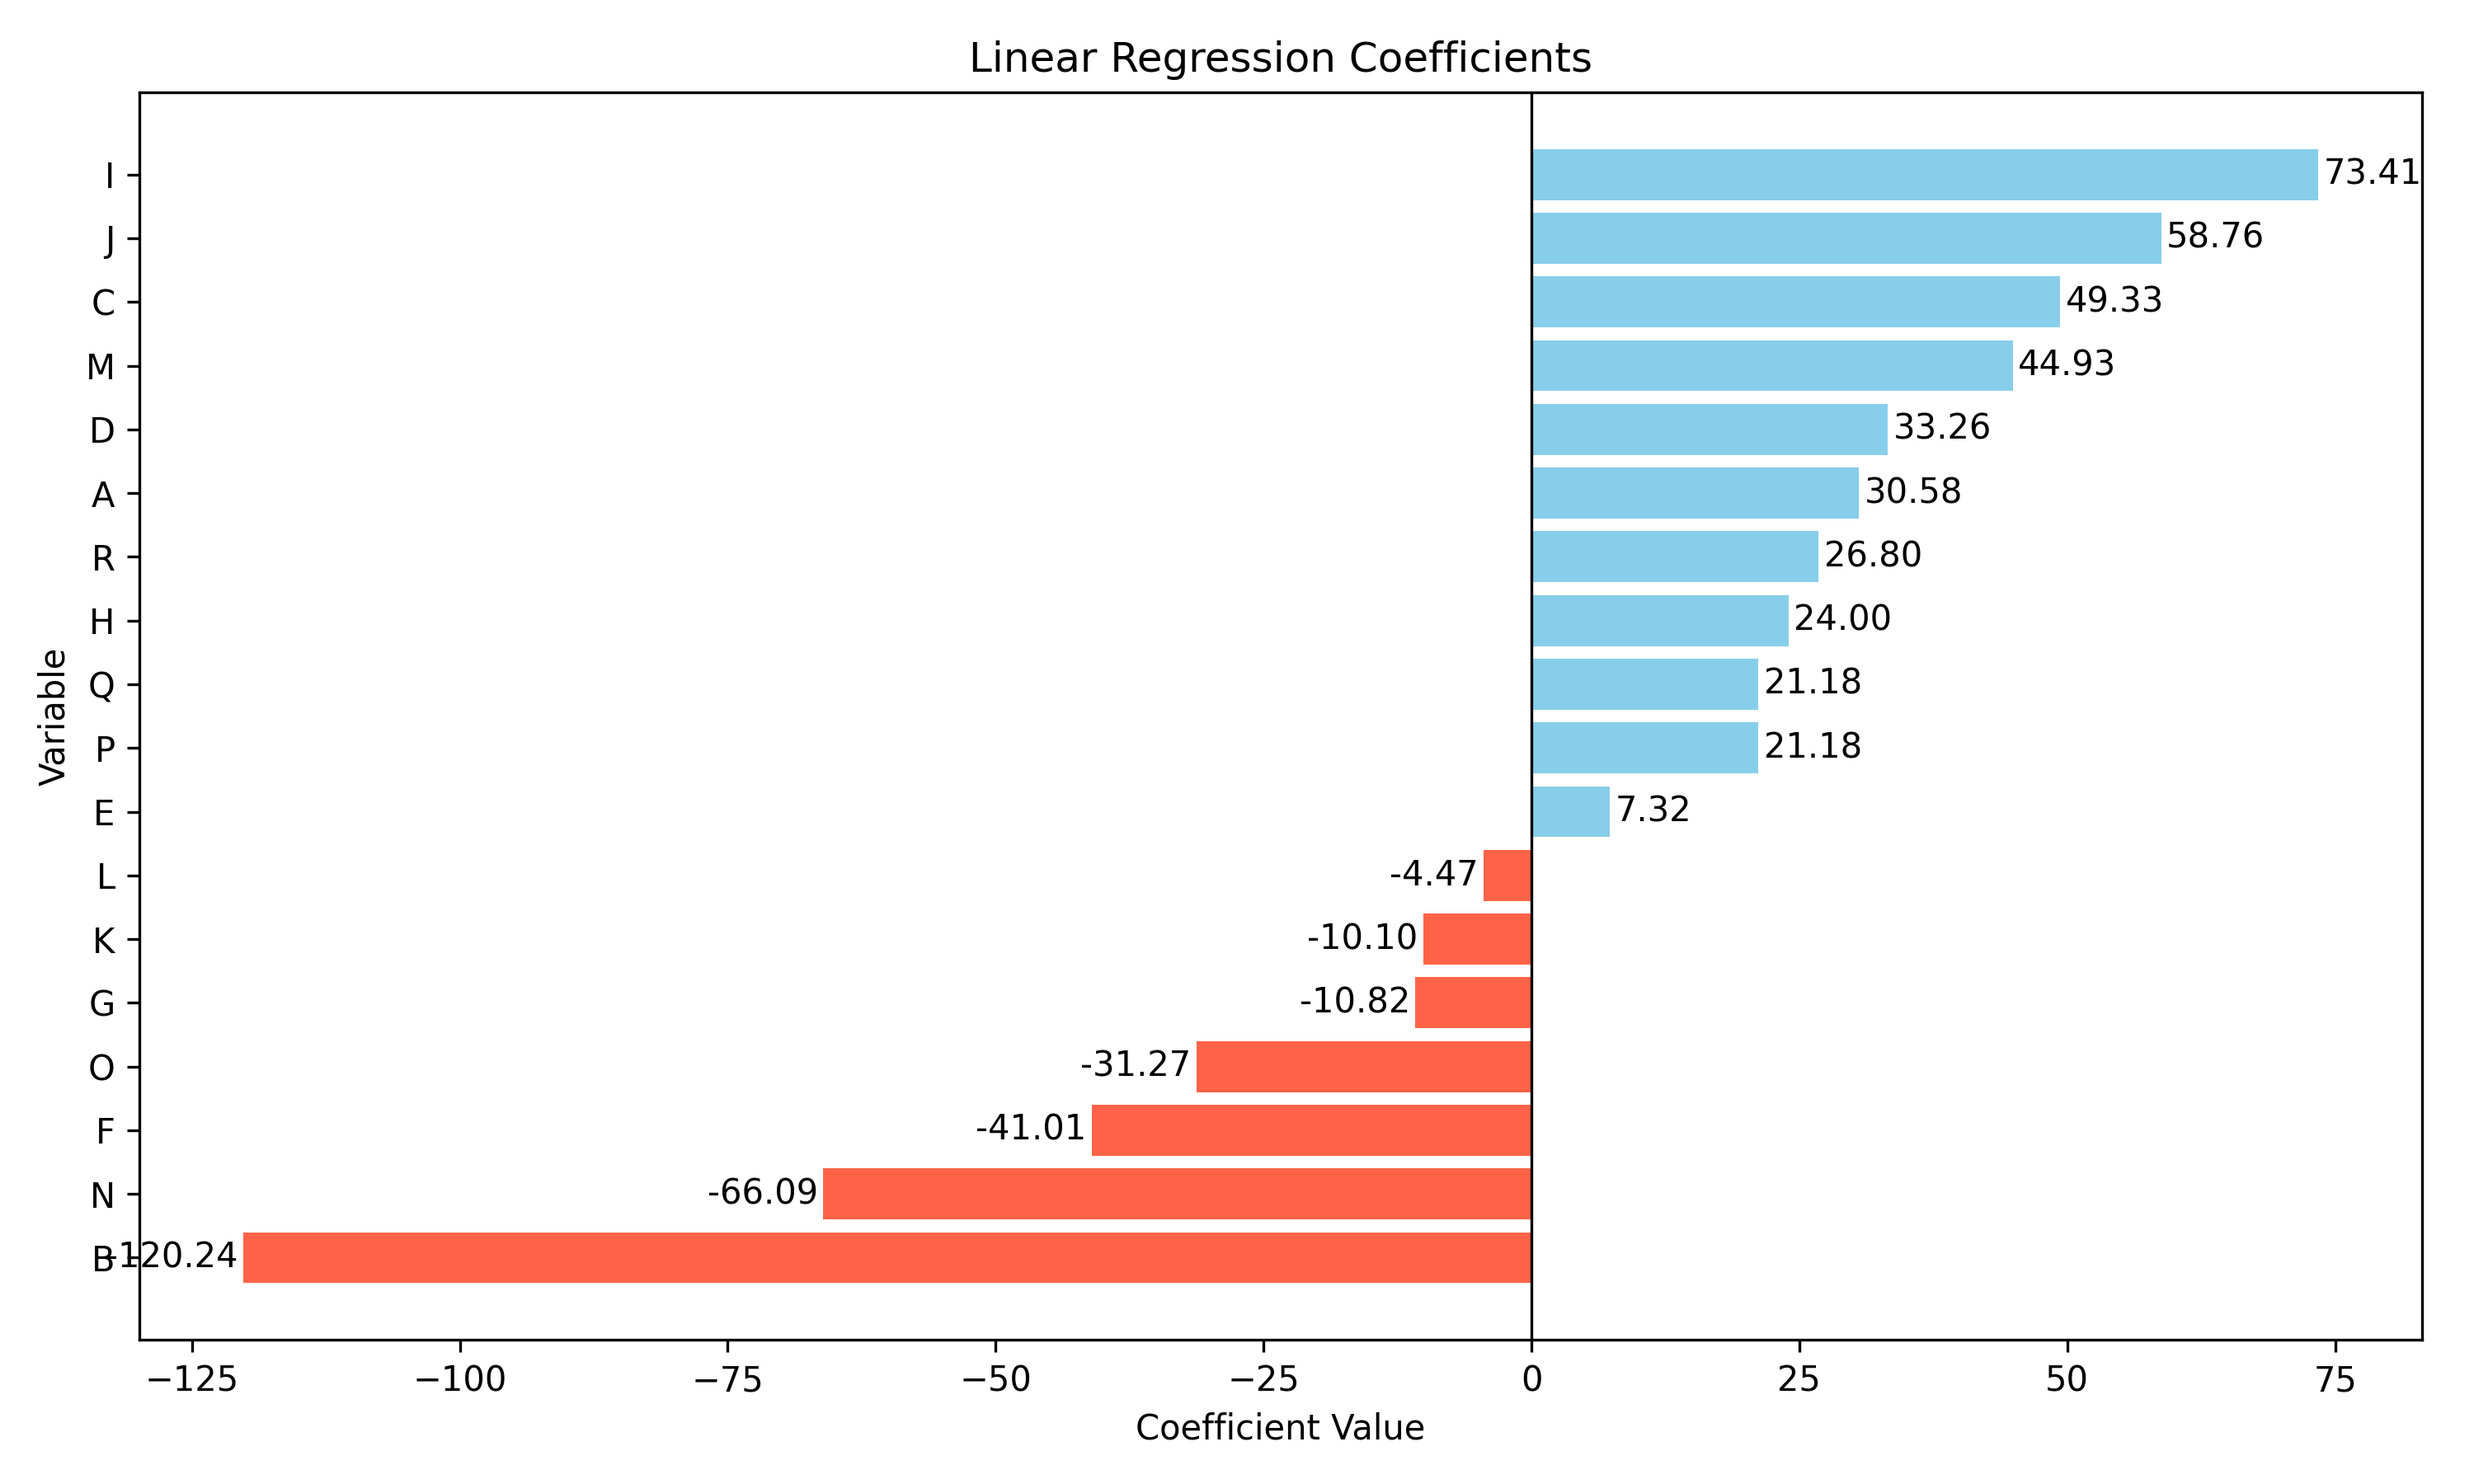
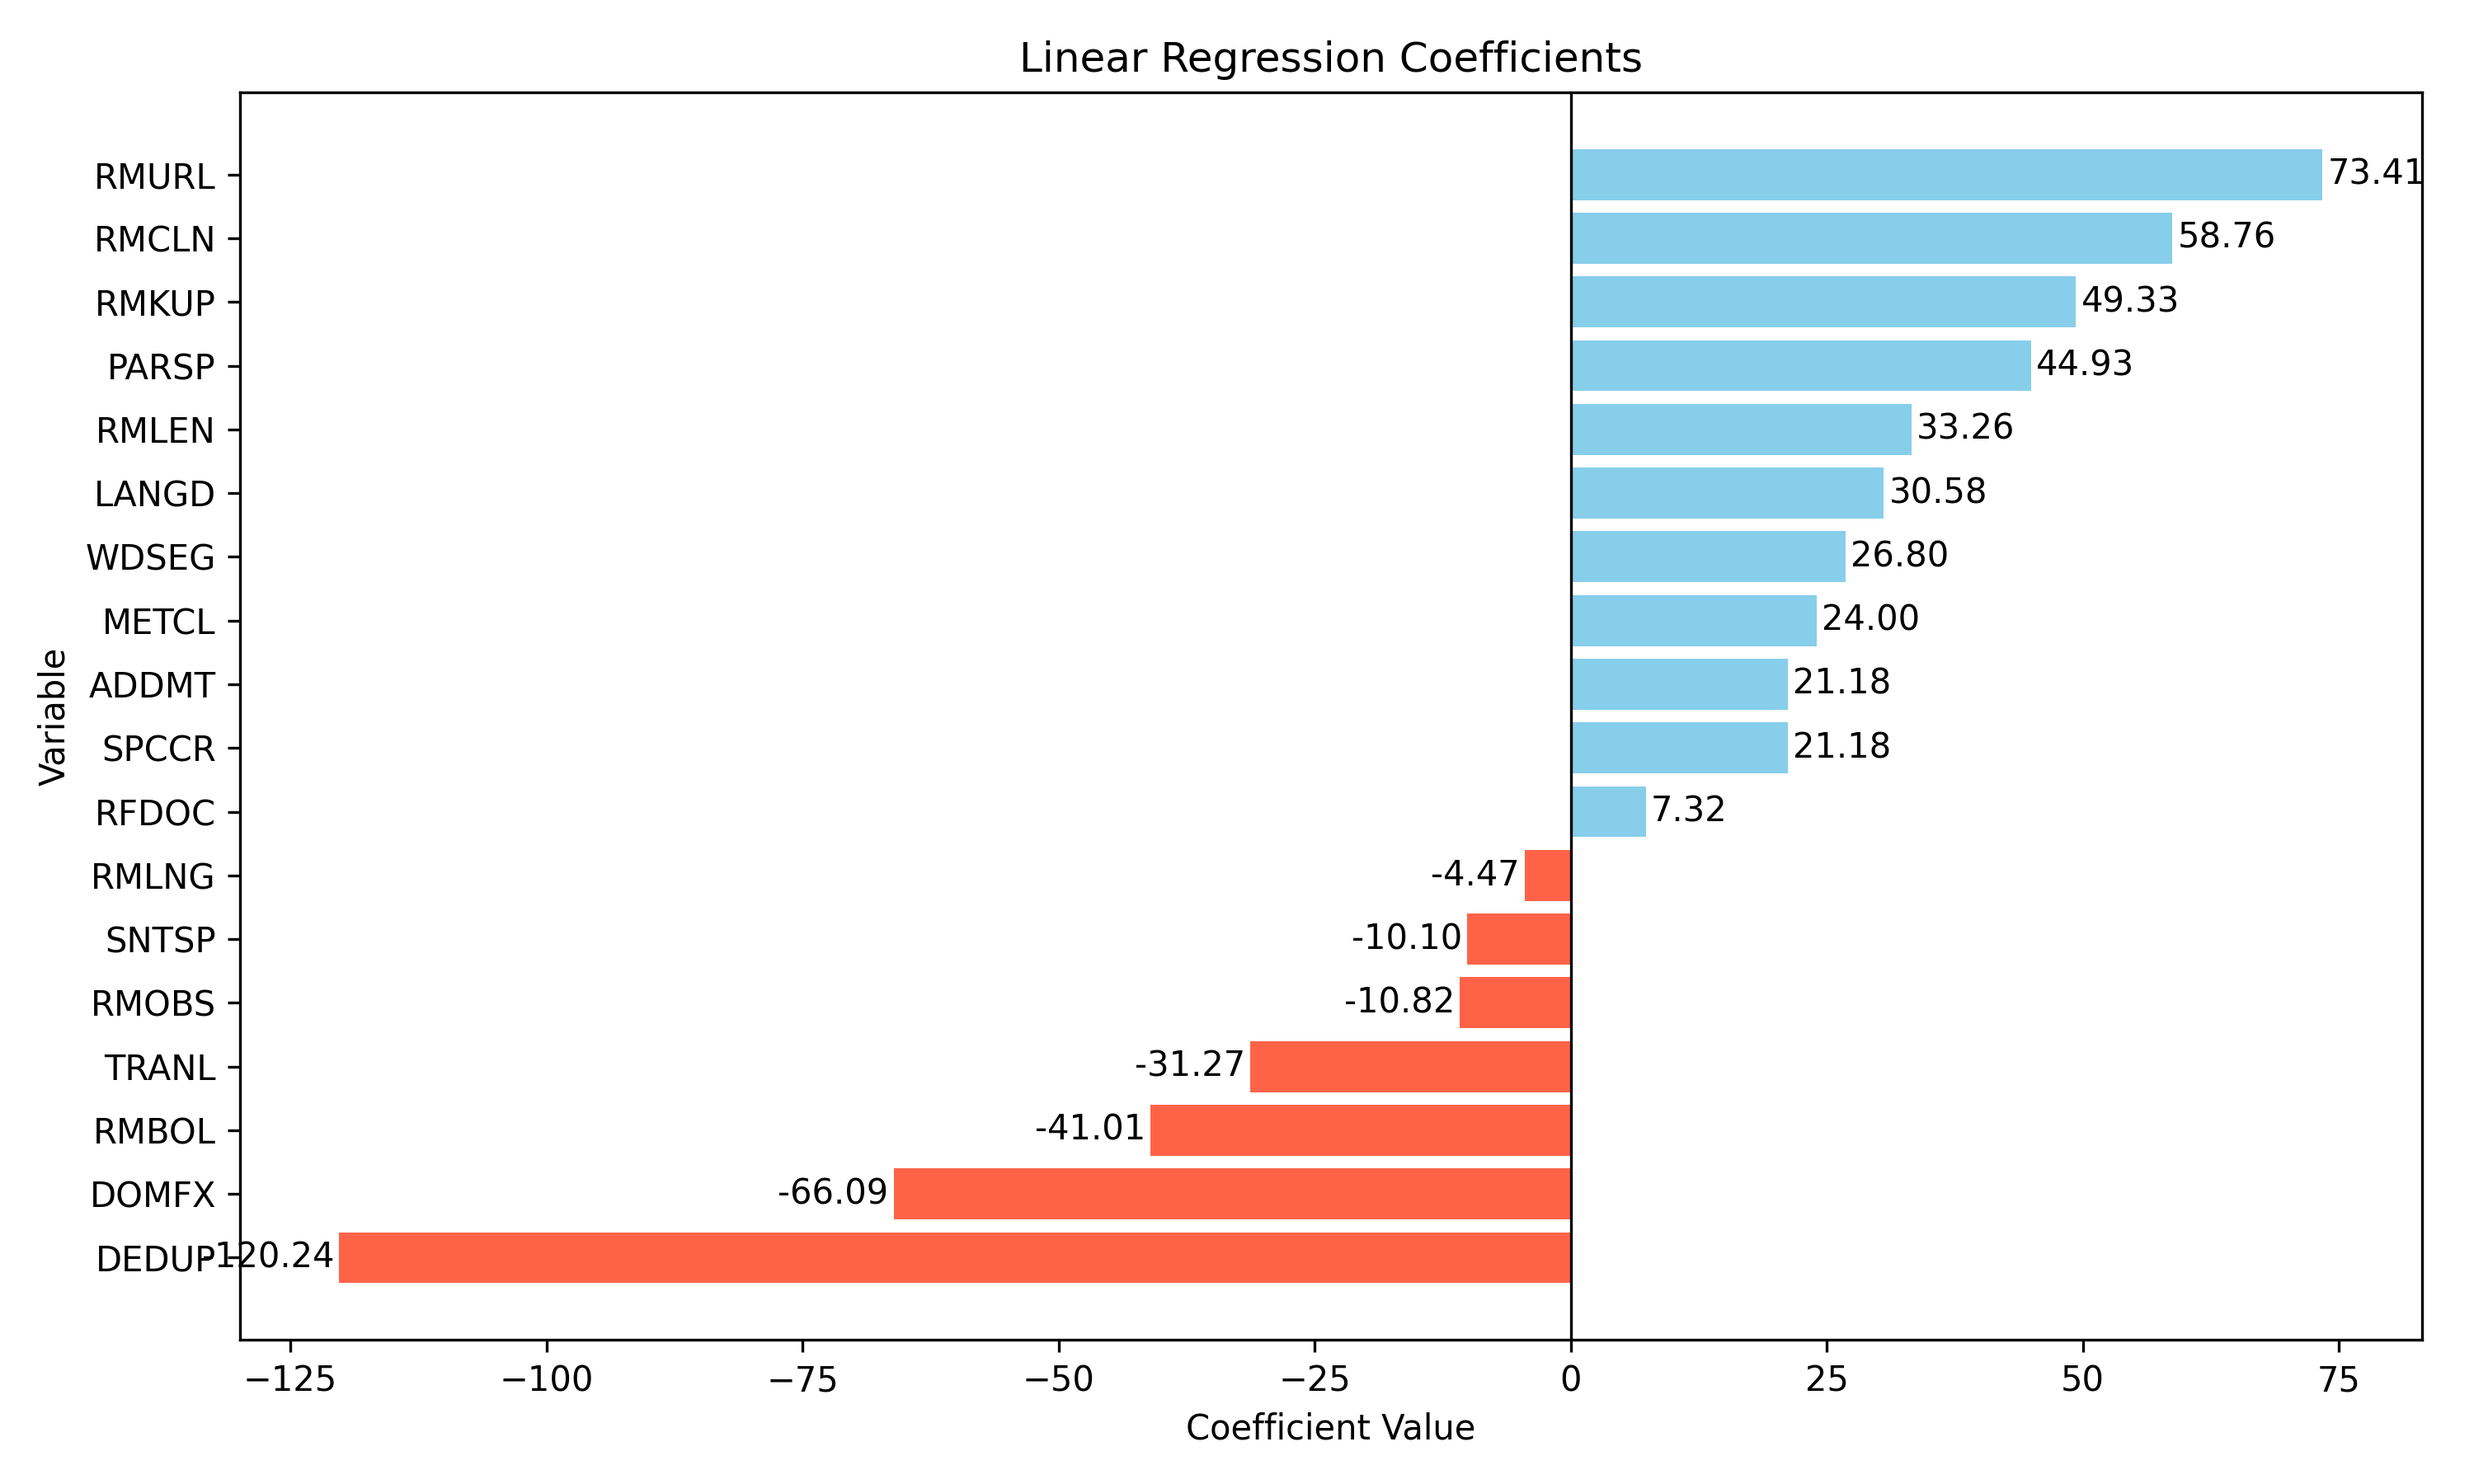
Added more accurate labels for charts

diff --git a/Sieve-linear-regressions/lr.py b/Sieve-linear-regressions/lr.py
@@ -15,24 +15,24 @@ import numpy as np
 
 data = {
     "Score": [69.5, -27.5, 109, -38.5, -107, 121.5, 86.5, 79, 96, 113, 73, 114, 65, -108],
-    "A": [True, True, True, True, True, True, True, True, True, True, False, False, False, False],
-    "B": [True, True, True, True, True, False, False, False, False, False, False, False, False, False],
-    "C": [True, True, True, True, False, False, False, False, False, False, True, False, False, False],
-    "D": [True, False, False, False, False, False, False, True, True, False, False, False, False, False],
-    "E": [True, True, True, False, False, False, False, False, False, False, False, False, False, False],
-    "F": [True, False, False, False, True, False, False, False, False, False, False, False, False, False],
-    "G": [True, True, False, False, False, False, False, False, False, False, False, False, False, False],
-    "H": [True, False, False, True, False, False, False, False, False, False, False, False, False, False],
-    "I": [True, False, True, False, False, False, False, False, False, False, False, False, False, False],
-    "J": [False, True, False, False, False, False, False, False, False, True, False, False, False, False],
-    "K": [False, False, False, True, False, False, True, False, False, False, False, False, False, False],
-    "L": [False, False, False, True, False, True, False, False, False, False, False, False, False, False],
-    "M": [False, False, True, False, False, True, False, False, False, False, False, False, False, False],
-    "N": [False, True, False, False, False, False, False, False, False, False, False, False, False, False],
-    "O": [False, False, False, True, False, False, False, False, False, False, False, False, False, False],
-    "P": [False, False, False, False, False, False, True, False, False, False, False, False, False, False],
-    "Q": [False, False, False, False, False, False, True, False, False, False, False, False, False, False],
-    "R": [False, False, False, False, False, True, False, False, False, False, False, False, False, False],
+    "LANGD": [True, True, True, True, True, True, True, True, True, True, False, False, False, False],
+    "DEDUP": [True, True, True, True, True, False, False, False, False, False, False, False, False, False],
+    "RMKUP": [True, True, True, True, False, False, False, False, False, False, True, False, False, False],
+    "RMLEN": [True, False, False, False, False, False, False, True, True, False, False, False, False, False],
+    "RFDOC": [True, True, True, False, False, False, False, False, False, False, False, False, False, False],
+    "RMBOL": [True, False, False, False, True, False, False, False, False, False, False, False, False, False],
+    "RMOBS": [True, True, False, False, False, False, False, False, False, False, False, False, False, False],
+    "METCL": [True, False, False, True, False, False, False, False, False, False, False, False, False, False],
+    "RMURL": [True, False, True, False, False, False, False, False, False, False, False, False, False, False],
+    "RMCLN": [False, True, False, False, False, False, False, False, False, True, False, False, False, False],
+    "SNTSP": [False, False, False, True, False, False, True, False, False, False, False, False, False, False],
+    "RMLNG": [False, False, False, True, False, True, False, False, False, False, False, False, False, False],
+    "PARSP": [False, False, True, False, False, True, False, False, False, False, False, False, False, False],
+    "DOMFX": [False, True, False, False, False, False, False, False, False, False, False, False, False, False],
+    "TRANL": [False, False, False, True, False, False, False, False, False, False, False, False, False, False],
+    "SPCCR": [False, False, False, False, False, False, True, False, False, False, False, False, False, False],
+    "ADDMT": [False, False, False, False, False, False, True, False, False, False, False, False, False, False],
+    "WDSEG": [False, False, False, False, False, True, False, False, False, False, False, False, False, False],
 }
 
 df = pd.DataFrame(data)
